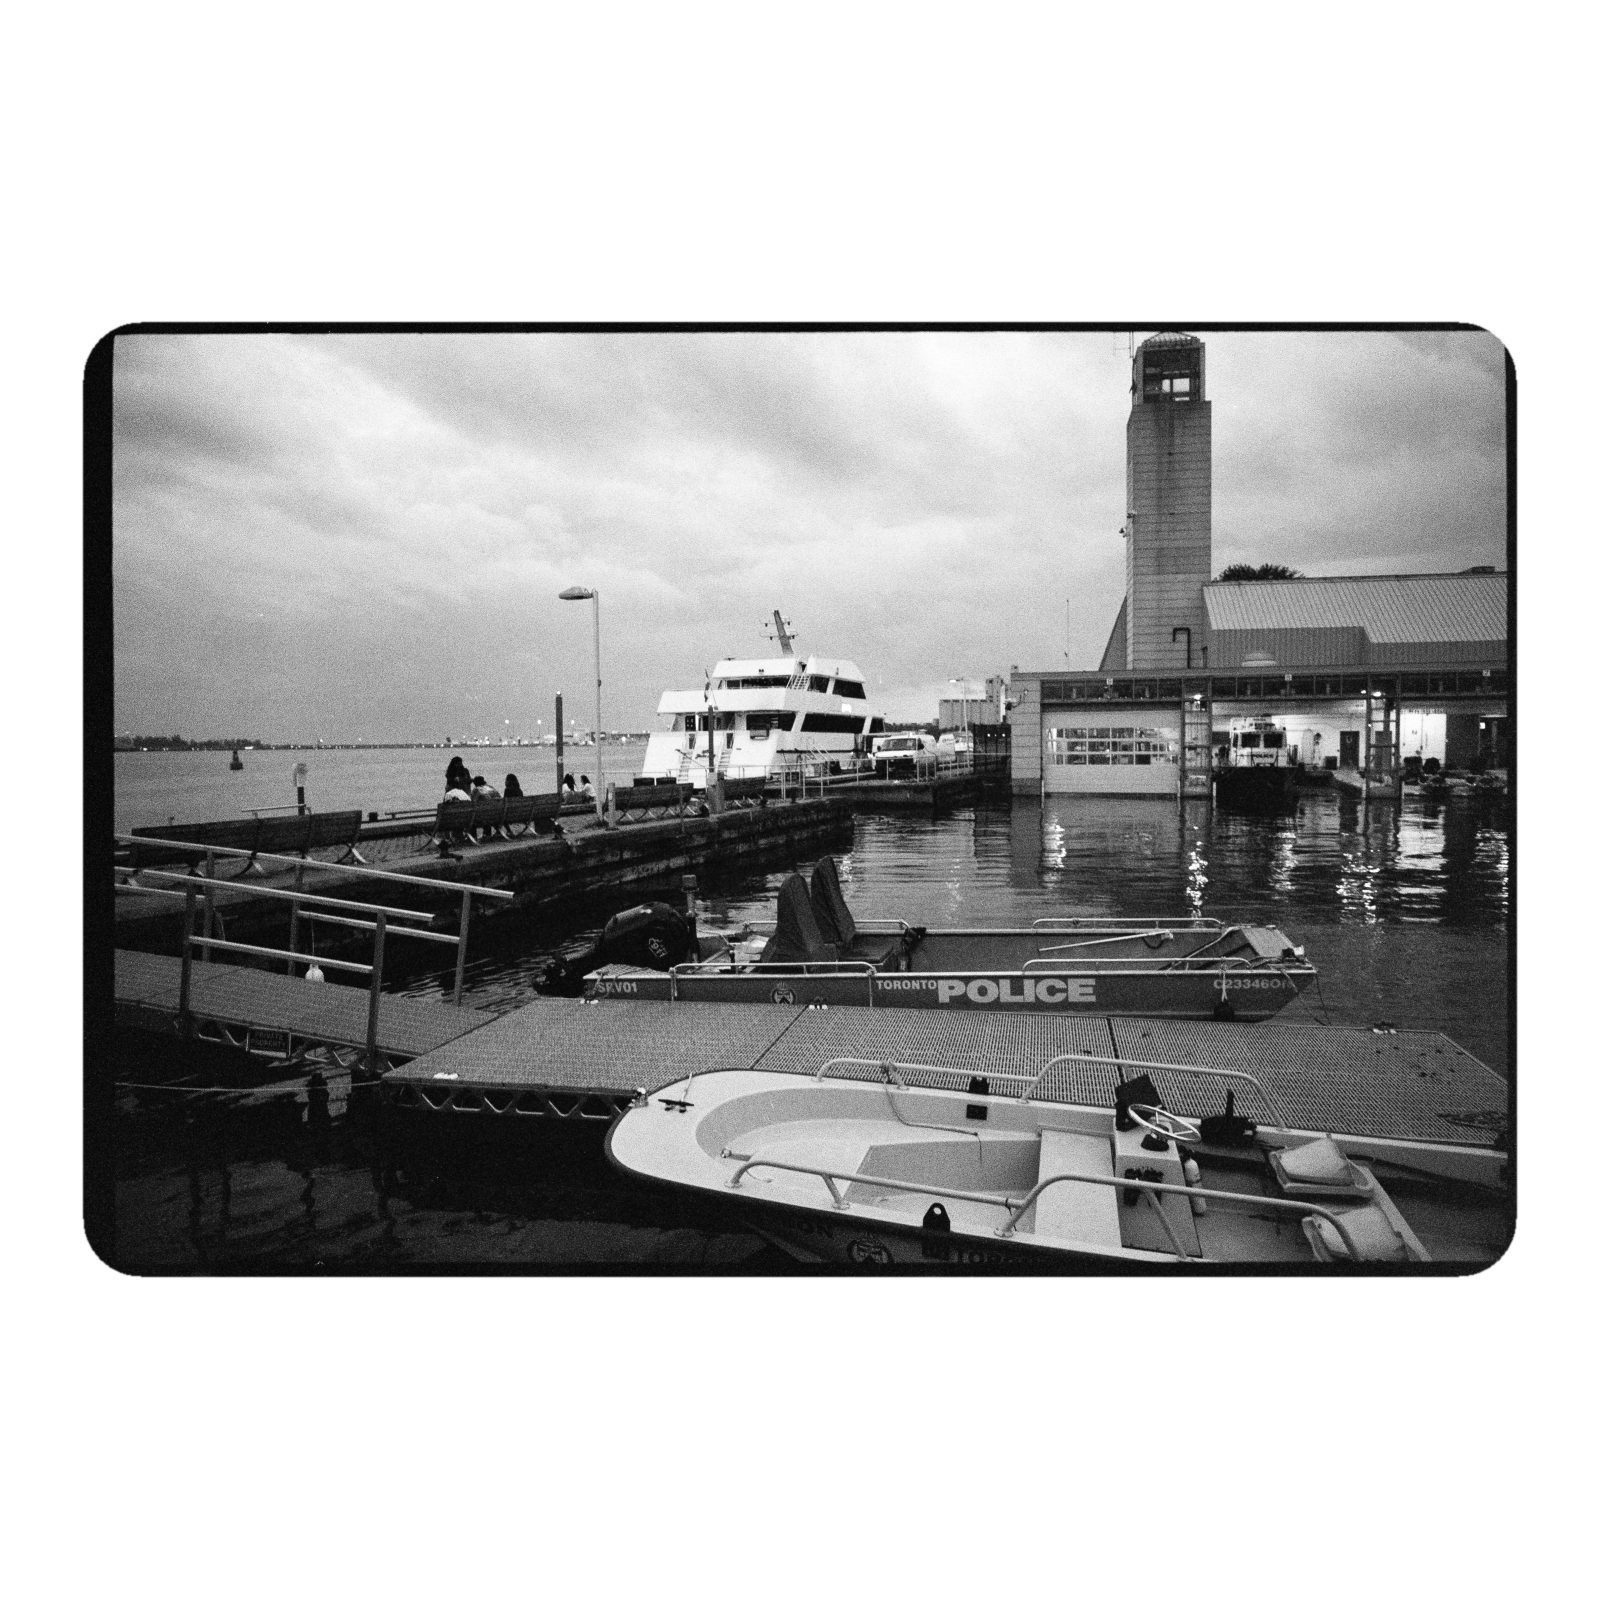
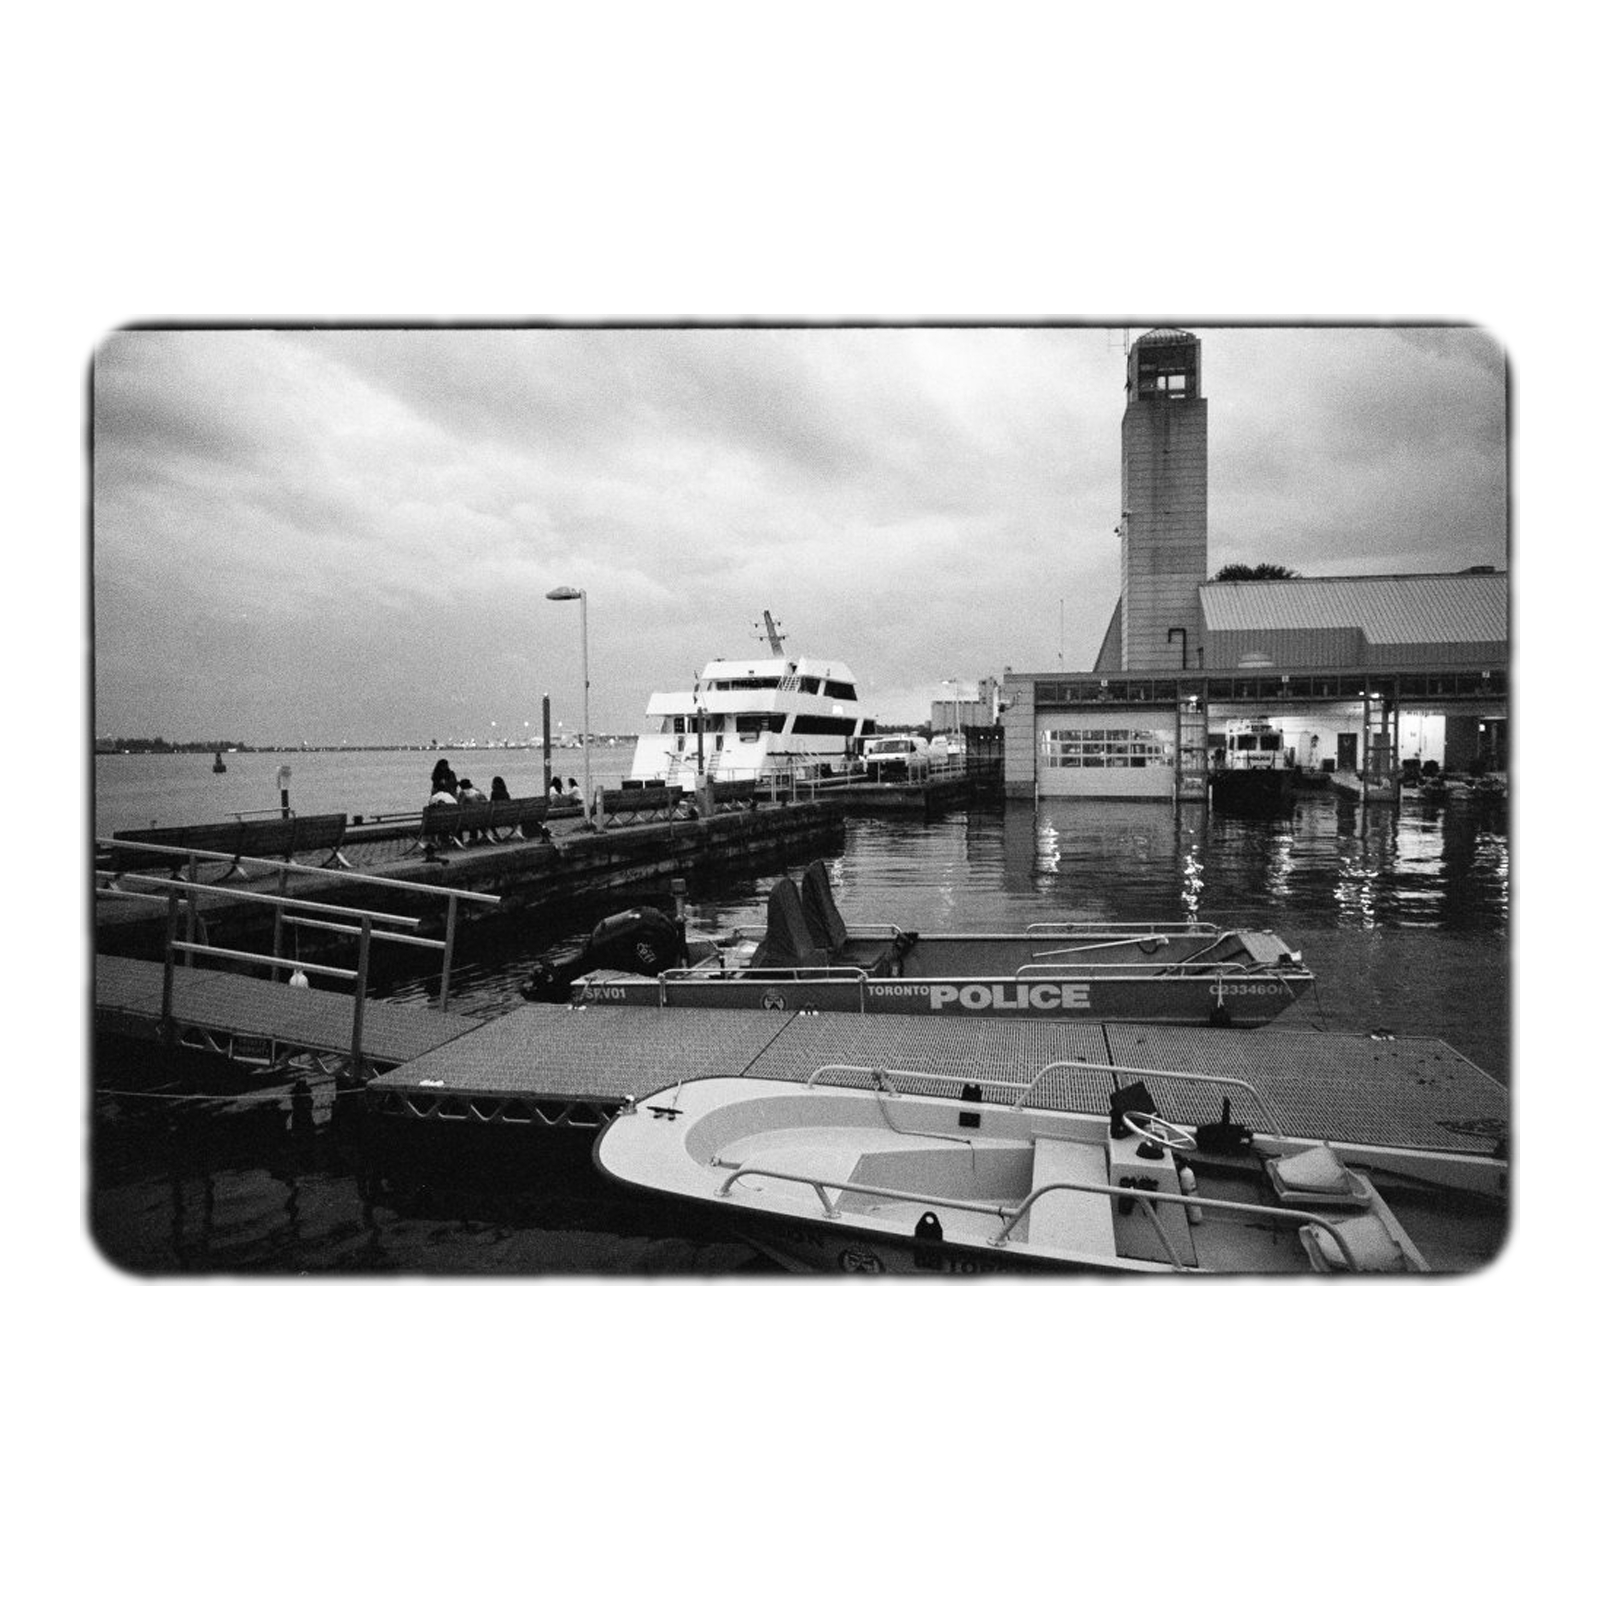
better

Changed region(s): [[0.0312, 0.1875, 0.9688, 0.8125], [0.125, 0.7188, 0.1875, 0.75]]

diff --git a/rebate.py b/rebate.py
@@ -438,9 +438,12 @@ def _sprocket_band_edges(gray):
         photo = max(runs, key=lambda r: r[1] - r[0])
 
     ts_bot = bs_top = None
+    # The sprocket band on each side is the bright run closest to that image
+    # edge (top / bottom), not the run closest to the photo: a bright strip at
+    # the photo's own edge is common and must not be mistaken for sprockets.
     above = [r for r in runs if r[1] < photo[0]]
     if above:
-        ts_bot = above[-1][1]
+        ts_bot = above[0][1]
     below = [r for r in runs if r[0] > photo[1]]
     if below:
         bs_top = below[0][0]
@@ -467,7 +470,8 @@ def _sprocket_inner_edges(gray):
 
 
 def crop_with_border(gray, left, top, right, bot, border_frac,
-                     sprocket_chance, seed, border_jitter=0.0):
+                     sprocket_chance, seed, border_jitter=0.0,
+                     max_sprocket_border=0.03):
     """Expand the gate by border_frac * gate_height, with two sources of
     randomness so no two crops look alike:
 
@@ -503,23 +507,28 @@ def crop_with_border(gray, left, top, right, bot, border_frac,
 
     ts_bot, bs_top = _sprocket_inner_edges(gray)
 
-    top_ok = ts_bot is not None and 0 < top - ts_bot < 0.04 * gate_h
-    bot_ok = bs_top is not None and 0 < bs_top - bot < 0.04 * gate_h
+    # Only show sprockets when the rebate between the photo and that band is
+    # small; otherwise dipping would drag a wide black rebate into the crop.
+    max_border = max_sprocket_border * gate_h
+    top_avail = ts_bot is not None and 0 < top - ts_bot < max_border
+    bot_avail = bs_top is not None and 0 < bs_top - bot < max_border
 
-    # Clean-clamp each eligible side to just inside its sprocket band first...
-    if top_ok:
+    # Clean-clamp each side with detected sprockets so the normal border never
+    # accidentally reaches the holes...
+    if top_avail:
         crop_top = max(crop_top, int(ts_bot) + 4)
-    if bot_ok:
+    if bot_avail:
         crop_bot = min(crop_bot, int(bs_top) - 4)
 
-    # ...then dip at most ONE eligible side into the holes.
-    if top_ok or bot_ok:
+    # ...then optionally dip at most ONE eligible side into the holes, chosen
+    # randomly when both are close enough.
+    if top_avail or bot_avail:
         if rng.random() < sprocket_chance:
-            dip = rng.uniform(0.0002, 0.001) * gate_h
-            if top_ok and bot_ok:
+            dip = rng.uniform(0.0005, 0.0015) * gate_h
+            if top_avail and bot_avail:
                 dip_top = rng.random() < 0.5
             else:
-                dip_top = top_ok
+                dip_top = top_avail
             if dip_top:
                 crop_top = max(0, int(round(ts_bot - dip)))
             else:
@@ -640,8 +649,8 @@ def compose_on_white(crop, size, margin_frac, radius_frac, roughness,
 
 def process(path, out_dir, size, margin_frac, border_frac, radius_frac,
             roughness, feather, seed, quality, sprocket_chance,
-            radius_jitter, border_jitter, plain=False, debug=False,
-            suffix=".bordered.jpg"):
+            radius_jitter, border_jitter, max_sprocket_border=0.03,
+            plain=False, debug=False, suffix=".bordered.jpg"):
     img = cv2.imread(path, cv2.IMREAD_COLOR)
     if img is None:
         print(f"!! cannot read {path}", file=sys.stderr)
@@ -680,7 +689,8 @@ def process(path, out_dir, size, margin_frac, border_frac, radius_frac,
     left, top, right, bot = detect_gate(gray)
     crop_seed = None if seed is None else seed + 100000
     cl, ct, cr, cb = crop_with_border(gray, left, top, right, bot, border_frac,
-                                      sprocket_chance, crop_seed, border_jitter)
+                                      sprocket_chance, crop_seed, border_jitter,
+                                      max_sprocket_border)
 
     if debug:
         dbg = img.copy()
@@ -739,6 +749,10 @@ def main():
                     help="random shift of the black film border, as a "
                          "fraction of the border thickness (0 = perfectly "
                          "even; default 0.6)")
+    ap.add_argument("--max-sprocket-border", type=float, default=0.03,
+                    help="max rebate (fraction of gate height) that still "
+                         "shows a sprocket sliver; beyond it the crop keeps "
+                         "a small plain border (default 0.03)")
     ap.add_argument("--roughness", type=float, default=0.5,
                     help="edge irregularity in px (0 = perfectly straight; "
                          "default 0.5)")
@@ -767,7 +781,8 @@ def main():
         process(path, args.out, args.size, args.margin, args.border,
                 args.radius, args.roughness, args.feather, args.seed,
                 args.quality, args.sprocket_chance, args.radius_jitter,
-                args.border_jitter, args.plain, args.debug, args.suffix)
+                args.border_jitter, args.max_sprocket_border,
+                args.plain, args.debug, args.suffix)
 
 
 if __name__ == "__main__":

diff --git a/tests/test_rebate.py b/tests/test_rebate.py
@@ -130,7 +130,7 @@ class TestPortrait(unittest.TestCase):
             in_path = os.path.join(d, "in.jpg")
             cv2.imwrite(in_path, portrait_bgr)
             out_path = rebate.process(in_path, d, 0, 0.05, 0.012, 0.015,
-                                      0.0, 0.0, 42, 100, 0.0, 0.0, 0.0,
+                                      0.0, 0.0, 42, 100, 0.0, 0.0, 0.0, 0.03,
                                       plain=True, debug=False)
             self.assertIsNotNone(out_path)
             out = cv2.imread(out_path, cv2.IMREAD_GRAYSCALE)
@@ -173,6 +173,20 @@ class TestRandomness(unittest.TestCase):
         self.assertTrue(90 <= ts_bot <= 110)
         self.assertTrue(1090 <= bs_top <= 1110)
 
+    def test_sprocket_band_edges_ignores_photo_edge_strip(self):
+        # A bright strip right at the photo's top edge must not be mistaken for
+        # the top sprocket band (regression: it made the top rebate look thin
+        # and biased the sprocket sliver to the bottom).
+        h, w = 1200, 1800
+        img = np.full((h, w), 10, np.uint8)
+        img[0:100, :] = 220       # top sprocket band
+        img[280:300, :] = 220     # spurious bright strip at photo edge
+        img[300:900, :] = 180     # photo
+        img[1100:1200, :] = 220   # bottom sprocket band
+        ts_bot, bs_top = rebate._sprocket_band_edges(img)
+        self.assertTrue(90 <= ts_bot <= 110)
+        self.assertTrue(1090 <= bs_top <= 1110)
+
     def _sprocket_scan(self):
         h, w = 1200, 1800
         img = np.full((h, w), 10, np.uint8)
@@ -211,10 +225,28 @@ class TestRandomness(unittest.TestCase):
         self.assertIsNotNone(bs_top)
         for seed in range(60):
             cl, ct, cr, cb = rebate.crop_with_border(
-                img, left, top, right, bot, 0.05, 1.0, seed, 0.0)
+                img, left, top, right, bot, 0.05, 1.0, seed, 0.0, 0.1)
             top_dipped = ct < int(ts_bot)
             bot_dipped = cb > int(bs_top)
             self.assertFalse(top_dipped and bot_dipped)
+
+    def test_sprocket_skipped_when_rebate_too_thick(self):
+        # A wide black rebate between the photo and the sprockets must NOT be
+        # dragged into the crop (it would make the border massive).
+        h, w = 1200, 1800
+        img = np.full((h, w), 10, np.uint8)
+        img[0:350, :] = 220       # top sprocket band
+        img[500:1000, :] = 180    # photo (gate)
+        img[1150:1200, :] = 220   # bottom sprocket band
+        left, top, right, bot = 450, 500, 1350, 1000
+        ts_bot, bs_top = rebate._sprocket_inner_edges(img)
+        self.assertIsNotNone(ts_bot)
+        self.assertIsNotNone(bs_top)
+        for seed in range(60):
+            cl, ct, cr, cb = rebate.crop_with_border(
+                img, left, top, right, bot, 0.05, 1.0, seed, 0.0, 0.03)
+            self.assertGreaterEqual(ct, int(ts_bot))
+            self.assertLessEqual(cb, int(bs_top))
 
 
 if __name__ == "__main__":

diff --git a/AGENTS.md b/AGENTS.md
@@ -1,0 +1,192 @@
+# AGENTS.md — border-scan / rebate
+
+Context for AI agents working on this repository.
+
+## What this project is
+
+`rebate.py` takes DSLR scans of 35mm film shot **"with full sprockets"** (already
+positive / inverted) and produces a **bordered scan**: the real exposed frame +
+its natural unexposed film border (rebate), rounded corners with a soft,
+slightly irregular edge, composited on a white canvas.
+
+The goal is to mimic a classic **Fuji Frontier** "border" scan, but built from
+the *real* film border in the scan rather than a drawn frame. The key design
+principle (user decision): **"just a crop"** — the border texture is the actual
+film; we do **not** synthesize grain, luminance drift, dust/scratches, or any
+other surface texture.
+
+Default output is **native resolution** (no resampling), typically ~6300×4500px.
+
+## Environment
+
+- Interpreter: **`/opt/homebrew/bin/python3.11`** (has OpenCV + numpy).
+  The default `python3` on this Mac is 3.14 and does **not** have cv2/numpy.
+- The script has a `#!/opt/homebrew/bin/python3.11` shebang and is executable.
+- Requires: `opencv-python-headless`, `numpy`.
+
+## Running
+
+```bash
+./rebate.py INPUT.jpg --out ./out
+./rebate.py INPUT.jpg --out ./out --debug          # also save annotated debug image
+./rebate.py INPUT.jpg --out ./out --plain --suffix .plain.jpg   # no border, no canvas
+/opt/homebrew/bin/python3.11 -m unittest discover -s tests -p 'test_*.py'
+```
+
+Single file, glob, or many inputs all work (`inputs` is `nargs="+"`).
+
+## Input data layout
+
+Positives live under `~/Pictures/`, e.g.:
+
+```
+~/Pictures/2026/08_August/2026_08_picos_de_europa/<ROLL>/<ROLL>/positives/*-positive.jpg
+```
+
+Rolls (color negative, full sprockets):
+
+- `Leica_M7_Fuji_Superia_Preium_400_6612` (37 frames, ~5743×4912)
+- `Leica_M7_Fujicolor_100_6226` (37)
+- `Ricoh_TF-900_Cinestill_50D_1644` (74) — **also has a `positives-borderless/`
+  folder (no sprockets); exclude it.**
+- `Ricoh_TF-900_Kodak_Gold_200_5664` (37)
+
+Others (problematic or different):
+
+- `Leica_M7_Kodak_Ektachrome_100_6595` (slide; **most frames have no/weak
+  sprockets**, ~5646×3751, in `2026_07_toronto`).
+- `Leica_M7_Kodak_Vision_250D_AHU_1577` (76) — has a **known gate-clipping
+  bug** (see Known issues).
+- `Minolta_XD-S_Kodak_Vision_250D_AHU_0362` (1).
+
+The repo also has `samples/input.jpg` — a downsampled **B&W** Kentmere 400
+positive (1000×838) used for the README examples. Its rebate is thin, so
+sprockets show even with the default gate.
+
+## Output / CLI flags (current)
+
+| flag | default | meaning |
+|---|---|---|
+| `--out` | `.` | output dir |
+| `--size` | `0` | square canvas size; `0` = native res (recommended) |
+| `--margin` | `0.05` | white margin around crop (fraction) |
+| `--border` | `0.015` | film border kept around gate (fraction of gate height) |
+| `--radius` | `0.015` | corner radius (fraction of final crop size) |
+| `--radius-jitter` | `0.0` | random ± corner radius (fraction) |
+| `--border-jitter` | `0.6` | random shift of black border (fraction of border thickness); keeps crop size constant |
+| `--max-sprocket-border` | `0.03` | max rebate (fraction of gate height) that still shows a sprocket sliver |
+| `--roughness` | `0.5` | edge irregularity in px |
+| `--feather` | `3.0` | edge softness in px |
+| `--sprocket-chance` | `0.7` | chance a tiny sprocket sliver shows, at most one side |
+| `--seed` | random | seed for edge texture / sprocket / border randomness |
+| `--quality` | `100` | JPEG quality |
+| `--plain` | off | crop just the 3:2 image, no border/canvas |
+| `--debug` | off | save annotated debug image |
+| `--suffix` | `.bordered.jpg` | output suffix (`.png` = lossless) |
+
+## Code structure (`rebate.py`)
+
+Detection / geometry:
+
+- `_sprocket_candidates(gray)` — bright blob candidates in top/bottom bands.
+- `_grid_fit(xs, w)` — best periodic sprocket grid (pitch, phase).
+- `_sprocket_info(gray)` — sprocket geometry (ts_bot, bs_top, center_x, pitch),
+  or `None`. Tolerates one undetectable side.
+- `_sprocket_band_edges(gray)` — **fallback** using row-wise p95 brightness
+  profile (photo = widest bright run near center; sprocket bands = bright runs
+  just outside it). Returns (ts_bot, bs_top), each possibly None.
+- `_sprocket_inner_edges(gray)` — `_sprocket_info` first, fills missing sides
+  from `_sprocket_band_edges`.
+- `_row_activity` / `_col_activity` — median + MAD per row/col.
+- `_photo_edges_in` / `_photo_edges_x` — find exposed frame by brightness/texture.
+- `detect_gate(gray)` — (left, top, right, bottom) of the 36×24mm gate.
+- `detect_photo_gate(gray)` — gate + small safety inset (used by `--plain`).
+
+Crop / compose:
+
+- `crop_with_border(gray, left, top, right, bot, border_frac, sprocket_chance,
+  seed, border_jitter=0.0, max_sprocket_border=0.03)` — expand gate by
+  `border_frac`, apply border jitter (shift, constant size), then optionally
+  dip a tiny sprocket sliver on at most one side.
+- `_rounded_mask` / `_organic_mask` — rounded-rect mask with fractal-noise
+  edge perturbation (roughness) + Gaussian feather.
+- `compose_on_white` — paste crop onto white canvas (native or `--size`).
+- `process` — reads image, handles portrait rotation, runs detect→crop→compose.
+- `main` — argparse.
+
+Physical constants: `ASPECT = 1.5`, `GATE_H_MM = 24.0`,
+`SPROCKET_PITCH_MM = 4.75`, `SPROCKET_PITCH_FALLBACK = 730` (px).
+
+## Detection algorithm (high level)
+
+1. Sprocket holes in the outer bands → grid-fit to the ~4.75mm pitch → learn
+   scan scale (pitch in px) + the two sprocket rows.
+2. Find the exposed 36×24mm gate via brightness/texture between the rows (or
+   pitch-implied 3:2 geometry for dark frames).
+3. No usable sprockets → brightness/texture over the whole strip, checked
+   against expected 3:2 height.
+4. Horizontal center from sprocket holes (top/bottom cross-checked).
+5. Crop = gate + `--border` band; optional tiny sprocket sliver.
+6. Rounded, slightly wavy, feathered mask → white canvas.
+
+## Sprocket sliver — final behavior (important)
+
+- A sliver is only shown when that side's rebate is **thin**: gate is
+  `0 < rebate < max_sprocket_border * gate_h` (default `0.03` ≈ 112px at
+  native). Otherwise the crop keeps a small plain border — this avoids a
+  "massive" wide black band when the frame sits far from the sprockets.
+- Dip amount is **tiny**: `rng.uniform(0.0005, 0.0015) * gate_h` ≈ 2–5px.
+- At most **one** side, chosen randomly (50/50) when both are eligible.
+
+Why: these full-strip scans have a thick top rebate (~350–600px on some rolls),
+so dipping all the way to the far sprockets made the border huge. The user
+wanted "a small part of the rebate + a tiny little bit of sprocket".
+
+## Key decisions / gotchas (from project history)
+
+- **"Just a crop"** — the texture is the real film rebate. No synthetic grain,
+  no luminance drift, no dust/scratch/Newton-ring simulation.
+- `_sprocket_band_edges` must use `above[0]` (bright run closest to the image
+  **top** edge) for the top band inner edge — using `above[-1]` (closest to the
+  photo) picked up a spurious bright strip at the photo edge and returned wrong
+  `ts_bot` (e.g. 576 instead of ~191). Bottom correctly uses `below[0]`.
+- `border_jitter` is a **shift** of the crop window relative to the fixed photo
+  (crop size constant), not a resize. This makes the black rebate asymmetric on
+  a random side.
+- Corner radius is a fixed fraction of the crop size; `--radius-jitter`
+  (default `0.0`) optionally varies it by a simple uniform ± factor. (Project
+  memory mentions an older 3-way corner mixture that is NOT in the current file.)
+- Portrait scans are rotated in memory to landscape for detection, then rotated
+  back; the source file is never modified.
+
+## Known issues
+
+- **Vision 250D 1577** (esp. `-019`): pre-existing gate-clipping bug —
+  `detect_gate` returns a gate outside the image (e.g. y[-5..3651]). Unrelated
+  to the sprocket work.
+- **Ektachrome 6595**: most frames have no/weak sprocket detection.
+- **Cinestill 50D 1644**: has both `positives/` (use this) and
+  `positives-borderless/` (no sprockets — do NOT use for sprocket work).
+
+## Tests
+
+```bash
+/opt/homebrew/bin/python3.11 -m unittest discover -s tests -p 'test_*.py'
+```
+
+16 tests in `tests/test_rebate.py` cover masks, grid fitting, gate/photo
+detection, portrait rotation, compose, and randomness (sprocket band edges,
+border jitter, sprocket-at-most-one-side, and thick-rebate skip).
+
+## Regenerating the README samples
+
+The `samples/*.jpg` previews are regenerated from `samples/input.jpg` at
+`--size 1600`:
+
+- `bordered-01/02/03.jpg` — default, seeds 1/2/3
+- `bordered-sprockets.jpg` — `--sprocket-chance 1 --seed 42`
+- `bordered-sharp.jpg` — `--radius 0 --roughness 0 --feather 0`
+- `bordered-round.jpg` — `--radius 0.06 --radius-jitter 0`
+- `plain-01.jpg` — `--plain`
+
+(These are for the README display only; normal use is native resolution.)

diff --git a/README.md b/README.md
@@ -68,6 +68,7 @@ Or explicitly:
 | `--roughness` | `0.5`           | edge irregularity in px (0 = perfectly straight)         |
 | `--feather`   | `3.0`           | edge softness in px (0 = hard edge)                      |
 | `--sprocket-chance` | `0.7`      | chance (0-1) a tiny sliver of sprockets is visible, on at most one side (top or bottom) |
+| `--max-sprocket-border` | `0.03` | max rebate (fraction of gate height) that still shows a sprocket sliver; beyond it the crop keeps a small plain border |
 | `--seed`      | random          | random seed for edge texture (for reproducibility)       |
 | `--quality`   | `100`           | JPEG quality 1-100                                       |
 | `--plain`     | off             | crop just the 3:2 image, no border, no white canvas      |
@@ -129,8 +130,10 @@ positive (slide) film.
    brightness/texture step over the whole strip, cross-checked against the
    expected 3:2 height.
 4. Horizontal centre from the sprocket holes (top/bottom cross-checked).
-5. Crops the gate plus a thin band of the real unexposed film border (the
-   sprocket sliver is only used when the rebate is thin).
+5. Crops the gate plus a thin band of the real unexposed film border (and,
+   with `--sprocket-chance`, occasionally dips a tiny sliver of sprocket
+   holes on at most one randomly-chosen side — only when that side's rebate
+   is thin enough that the border stays small; see `--max-sprocket-border`).
 6. Applies a rounded, slightly wavy, feathered edge and pastes onto a white
    canvas at native resolution.
 
